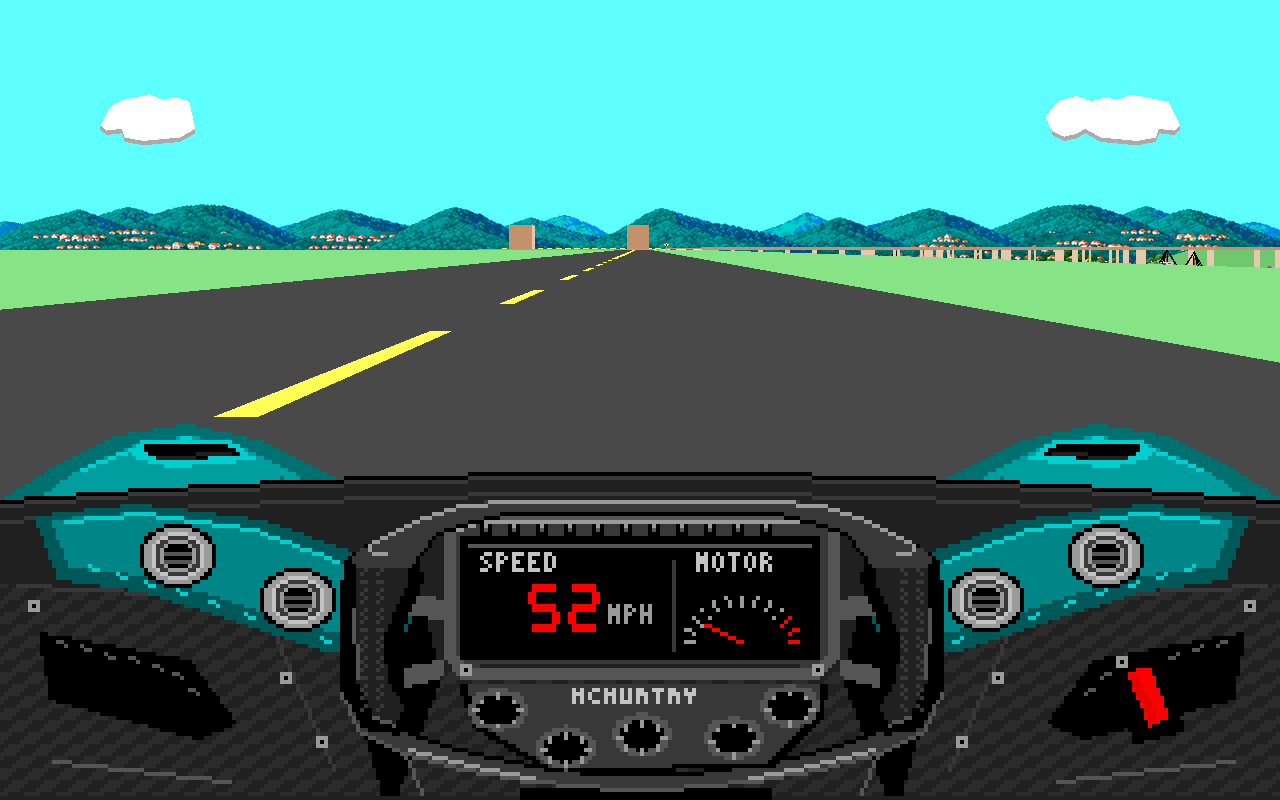
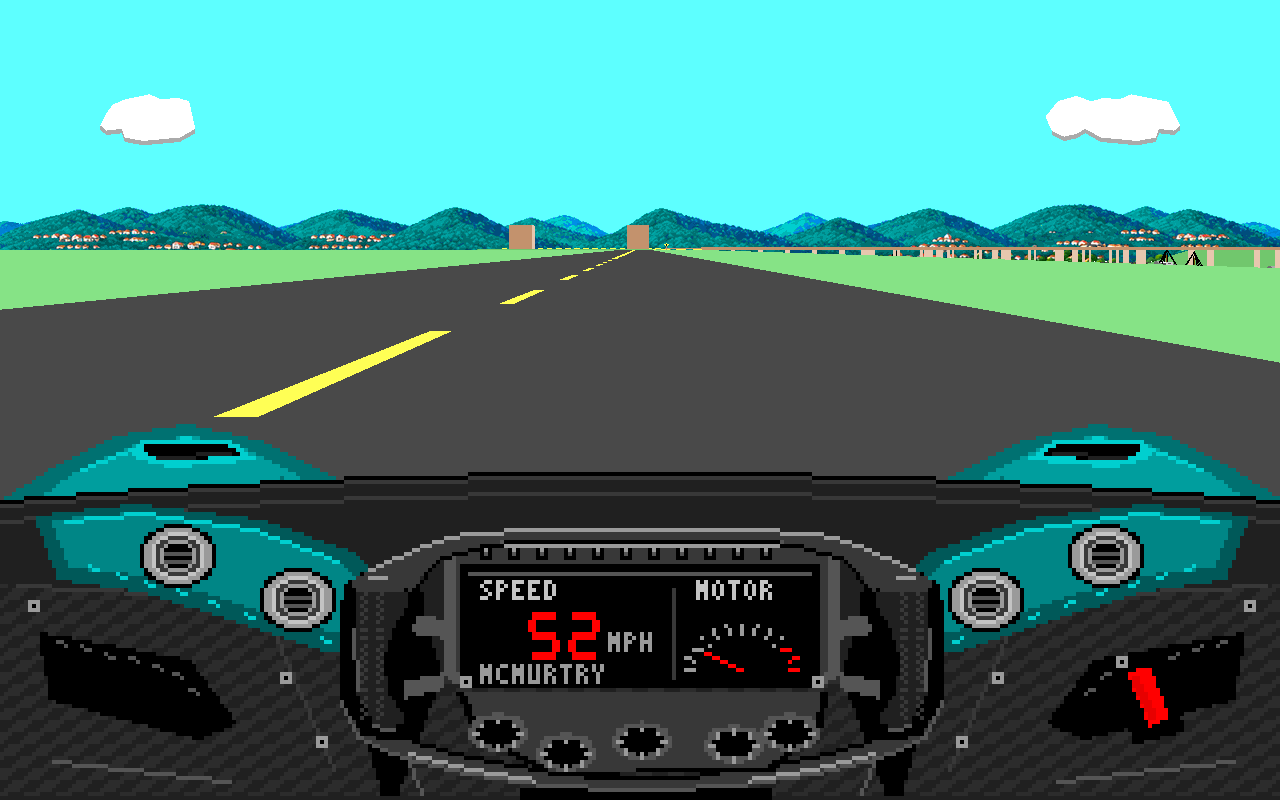
Fix McMurtry steering rim rotation
Replace the fixed screen-space center of the upper bridge with one local
shape transformed by the same rotation as the grips and lower return.
The complete rim now tilts with steering instead of changing shape.

Adjust the wheel pivot/projection and LCD clearance to keep the rigid rim
inside the native redraw region. Keep all five blank controls visible and
the live speed display and red needle clear throughout the steering sweep.

Regenerate dashboard resources and cockpit previews, and update the
recorded memory use to 39,152 resident bytes versus DIA3's 80,304 bytes.

Validation:
- Generator --check passes against packaged and installed resources.
- Upper-rim geometry preserves distances through all three steering states.
- Native steering, live instruments, redraw and RAM checks pass.
- git diff --check passes.

(cherry picked from commit 9a3a7dd85054a5d479c3f8ca9f4cfcdd4c1a1bfe)

Changed region(s): [[0.25, 0.625, 0.75, 1.0]]

diff --git a/tools/scripts/mcmurtry_dashboard.py b/tools/scripts/mcmurtry_dashboard.py
@@ -23,7 +23,7 @@ from pathlib import Path
 import struct
 
 from tesla_roadster_dashboard import (
-    Canvas, FONT, _container, _digit, _helpers, _palette, _resource_dict, _shape,
+    Canvas, _container, _digit, _helpers, _palette, _resource_dict, _shape,
     prepared_stda_size,
 )
 
@@ -32,9 +32,18 @@ WIDTH, HEIGHT = 320, 200
 DASH_TOP = 125
 DASH_OPAQUE_TOP = DASH_TOP
 TOP_OVERLAY_RECT = (0, 103, WIDTH, DASH_TOP - 103)
-INSTRUMENT_RECT = (116, 135, 88, 29)
+INSTRUMENT_RECT = (116, 142, 88, 29)
 WHEEL_RECT = (70, 125, 180, 75)
 WHEEL_TURN_DEGREES = 10
+WHEEL_CENTER = (160, 163)
+WHEEL_VERTICAL_SCALE = .72
+# One unchanged local shape for every steering state. The full rim uses the
+# same rotation and projection as the grips, lower return and control plate.
+UPPER_RIM_OUTER = ((-68, -29), (-54, -37.5), (-45, -41.25), (-33, -42.5),
+                   (33, -42.5), (45, -41.25), (54, -37.5), (68, -29))
+UPPER_RIM_INNER = ((58, -21), (51, -32.5), (42, -36.25), (33, -38.75),
+                   (-33, -38.75), (-42, -36.25), (-51, -32.5), (-58, -21))
+CONTROL_CENTERS = ((-36, 28), (-19, 35), (0, 31), (23, 32), (37, 28))
 DIGIT_WIDTH, DIGIT_HEIGHT = 8, 12
 DIGIT_POSITIONS = ((6, 11), (16, 11), (26, 11))
 BLACK, CHARCOAL, CARBON, EDGE = 0, 31, 29, 27
@@ -73,34 +82,34 @@ def _bolt(canvas, x, y):
 
 def _lcd(canvas):
     """Stationary live screen and actual prototype's shaped display surround."""
-    bezel = [(111, 132), (117, 129), (201, 129), (209, 132),
-             (209, 165), (204, 170), (115, 170), (111, 165)]
+    bezel = [(111, 138), (117, 135), (201, 135), (209, 138),
+             (209, 169), (204, 172), (115, 172), (111, 169)]
     canvas.polygon(bezel, EDGE)
-    canvas.polygon([(114, 132), (120, 130), (200, 130), (206, 132),
-                    (206, 164), (203, 167), (117, 167), (114, 164)], CARBON)
-    canvas.line((114, 132), (120, 130), SILVER)
-    canvas.line((120, 130), (199, 130), SILVER)
+    canvas.polygon([(114, 138), (120, 136), (200, 136), (206, 138),
+                    (206, 168), (203, 170), (117, 170), (114, 168)], CARBON)
+    canvas.line((114, 138), (120, 136), SILVER)
+    canvas.line((120, 136), (199, 136), SILVER)
     # The photographed lamps are unlit pale lenses, not fake shift telemetry.
     for index in range(11):
         x = 121 + index * 7
-        canvas.rect(x - 1, 131, x + 1, 133, BLACK)
-        canvas.point(x, 131, SILVER)
-        canvas.point(x, 132, EDGE)
-    canvas.rect(115, 134, 204, 164, BLACK)
-    canvas.line((117, 136), (202, 136), EDGE)
-    canvas.text(120, 138, "SPEED", WHITE)
-    canvas.text(174, 138, "MOTOR", WHITE)
-    canvas.text(152, 151, "MPH", SILVER)
-    canvas.line((168, 140), (168, 162), CARBON)
+        canvas.rect(x - 1, 137, x + 1, 139, BLACK)
+        canvas.point(x, 137, SILVER)
+        canvas.point(x, 138, EDGE)
+    canvas.rect(115, 141, 204, 171, BLACK)
+    canvas.line((117, 143), (202, 143), EDGE)
+    canvas.text(120, 145, "SPEED", WHITE)
+    canvas.text(174, 145, "MOTOR", WHITE)
+    canvas.text(152, 158, "MPH", SILVER)
+    canvas.line((168, 147), (168, 169), CARBON)
     for index in range(13):
         angle = math.pi - index * math.pi / 12
         cx, cy = INSTRUMENT_RECT[0] + MOTOR_CENTER[0], INSTRUMENT_RECT[1] + MOTOR_CENTER[1]
         canvas.line((cx + 14 * math.cos(angle), cy - 11 * math.sin(angle)),
                     (cx + 12 * math.cos(angle), cy - 9 * math.sin(angle)),
                     RED if index > 9 else SILVER)
-    canvas.line((120, 166), (199, 166), CHARCOAL)
-    _bolt(canvas, 116, 167)
-    _bolt(canvas, 204, 167)
+    canvas.text(120, 166, "MCMURTRY", SILVER)
+    _bolt(canvas, 116, 170)
+    _bolt(canvas, 204, 170)
 
 
 def _ellipse(canvas, x, y, rx, ry, color):
@@ -227,32 +236,36 @@ def _panel():
     return canvas
 
 
+def transform_wheel_points(vertices, direction):
+    """Rigid wheel-plane rotation followed by the shared cockpit projection."""
+    angle = math.radians(direction * WHEEL_TURN_DEGREES)
+    cosine, sine = math.cos(angle), math.sin(angle)
+    return [(WHEEL_CENTER[0] + x * cosine - y * sine,
+             WHEEL_CENTER[1] + WHEEL_VERTICAL_SCALE * (x * sine + y * cosine))
+            for x, y in vertices]
+
+
 def _wheel(canvas, direction):
     """Draw a closed shaped rim, textured side grips and five-knob plate."""
     # Keep the actual instrument face identical in every wheel sprite. The
     # game's dashboard_update_instruments redraws it after wheel restoration,
     # including when steering changes while the speed/RPM are unchanged.
-    lcd_rect = (111, 129, 99, 42)
+    lcd_rect = (111, 135, 99, 38)
     lcd_pixels = canvas.crop(lcd_rect)
-    angle = math.radians(direction * WHEEL_TURN_DEGREES)
-    cosine, sine = math.cos(angle), math.sin(angle)
 
     def points(vertices):
-        return [(160 + (x * cosine - y * sine),
-                 159 + .8 * (x * sine + y * cosine)) for x, y in vertices]
+        transformed = transform_wheel_points(vertices, direction)
+        x, y, width, height = WHEEL_RECT
+        if any(not x <= round(px) < x + width or
+               not y <= round(py) < y + height for px, py in transformed):
+            raise ValueError("Rigid wheel geometry escapes its redraw rectangle")
+        return transformed
 
     def polygon(vertices, color):
         canvas.polygon(points(vertices), color)
 
     def line(vertices, color, thickness=1):
         canvas.line(*points(vertices), color, thickness)
-
-    def label(x, y, text, color=WHITE):
-        for letter in text:
-            for index, pixel in enumerate(FONT[letter]):
-                if pixel == "1":
-                    canvas.point(*points([(x + index % 3, y + index // 3)])[0], color)
-            x += 4
 
     # A non-circular lower return connects both hand grips around the controls.
     # It sits behind the control plate and its knobs, with a shaped central
@@ -304,13 +317,13 @@ def _wheel(canvas, direction):
     polygon(plate, BLACK)
     polygon([(x * .96, y * .97) for x, y in plate], CARBON)
     line([(-44, 10), (43, 10)], EDGE)
-    label(-17, 16, "MCMURTRY", WHITE)
-    controls = ((-36, 23), (-19, 35), (0, 31), (23, 32), (37, 22))
-    for x, y in controls:
+    for x, y in CONTROL_CENTERS:
         # All five match the previous unlabelled second control: a dark face
         # and fluted outer grip. There is no white interior mark or dial text.
         surround = [(x + 8 * math.cos(a * math.pi / 4),
                      y + 7 * math.sin(a * math.pi / 4)) for a in range(8)]
+        if min(round(py) for _, py in points(surround)) < lcd_rect[1] + lcd_rect[3]:
+            raise ValueError("Rotary knob overlaps the restored LCD")
         polygon(surround, EDGE)
         polygon([(x + 6 * math.cos(a * math.pi / 4),
                   y + 5 * math.sin(a * math.pi / 4)) for a in range(8)], BLACK)
@@ -323,21 +336,17 @@ def _wheel(canvas, direction):
     for row in range(height):
         start = (y + row) * WIDTH + x
         canvas.pixels[start:start + width] = lcd_pixels[row * width:(row + 1) * width]
-    # The upper bridge remains visibly connected above the live screen. Its
-    # shoulder joins follow the steered grips while its narrow central cap
-    # surrounds the upright LCD. Restore only the bezel below this bridge, so
-    # neither display redraw nor the top-art mask can erase the closed rim.
-    left_outer, right_outer = points([(-68, -29), (68, -29)])
-    left_inner, right_inner = points([(-58, -21), (58, -21)])
-    top_outer = [left_outer, (106, 129), (115, 126), (127, 125),
-                 (193, 125), (205, 126), (214, 129), right_outer]
-    top_inner = [right_inner, (211, 133), (202, 130), (193, 128),
-                 (127, 128), (118, 130), (109, 133), left_inner]
-    canvas.polygon(top_outer + top_inner, CARBON)
-    for first, last in zip(top_outer, top_outer[1:]):
-        canvas.line(first, last, SILVER)
-    for first, last in zip(top_inner, top_inner[1:]):
-        canvas.line(first, last, BLACK)
+    # Restore the upright LCD first, then draw the complete rigid bridge over
+    # it. Layout clearance keeps every bridge pixel outside the live display,
+    # so native instrument redraw cannot erase part of the rotating rim.
+    live_pixels = canvas.crop(INSTRUMENT_RECT)
+    polygon(UPPER_RIM_OUTER + UPPER_RIM_INNER, CARBON)
+    for first, last in zip(UPPER_RIM_OUTER, UPPER_RIM_OUTER[1:]):
+        line([first, last], SILVER)
+    for first, last in zip(UPPER_RIM_INNER, UPPER_RIM_INNER[1:]):
+        line([first, last], BLACK)
+    if canvas.crop(INSTRUMENT_RECT) != live_pixels:
+        raise ValueError("Rigid upper rim overlaps the live instrument rectangle")
 
 
 def build_dashboards(repo: Path) -> tuple[bytes, bytes, dict[int, bytes]]:
@@ -432,8 +441,9 @@ def write_preview(repo: Path, path: Path, speed=150):
                 if color:
                     canvas.point(INSTRUMENT_RECT[0] + x + column,
                                  INSTRUMENT_RECT[1] + y + row, color)
-    canvas.line((INSTRUMENT_RECT[0] + MOTOR_CENTER[0],
-                 INSTRUMENT_RECT[1] + MOTOR_CENTER[1]), (197, 149), RED)
+    motor_x = INSTRUMENT_RECT[0] + MOTOR_CENTER[0]
+    motor_y = INSTRUMENT_RECT[1] + MOTOR_CENTER[1]
+    canvas.line((motor_x, motor_y), (motor_x + 12, motor_y - 11), RED)
     path = Path(path)
     path.write_bytes(_helpers(Path(repo))["indexed_png"](
         WIDTH, HEIGHT, bytes(canvas.pixels), _palette(Path(repo))))

diff --git a/tools/scripts/generate-mcmurtry-speirling.py b/tools/scripts/generate-mcmurtry-speirling.py
@@ -363,7 +363,7 @@ def generate(repository):
                      "min_alignment_cosine_q14": 8192, "max_alignment_degrees": 60, "surface_mask": 15,
                      "surfaces": ["paved", "dirt", "ice", "grass"],
                      "note": "Restunts surface attachment is a game approximation of fan downforce. No water adhesion. Original Stunts ignores these extra resources."},
-        "dashboard_note": "Original indexed artwork based on the supplied cockpit photographs and 2024 references: upright LCD, lamp row, a continuous shaped steering rim with textured side grips and contrasting carbon top and bottom bridges, five matching unlabelled fluted knobs, turquoise vent pods, silver circular vents and detailed carbon side panels. The instrument needle is red. A gently bowed carbon cowl and shaded upper lip curve around the wheel. Native masked upper artwork shows that curved edge, turquoise front fender crowns and their top openings while preserving the live road above them. Live instruments remain legible in all three steering positions; no copied photograph pixels.",
+        "dashboard_note": "Original indexed artwork based on the supplied cockpit photographs and 2024 references: upright LCD, lamp row, a continuous shaped steering rim with textured side grips and contrasting carbon top and bottom bridges, five matching unlabelled fluted knobs, turquoise vent pods, silver circular vents and detailed carbon side panels. Every rim section uses the same rotation about the hub, preserving the upper bridge's shape while steering. The instrument needle is red. A gently bowed carbon cowl and shaded upper lip curve around the wheel. Native masked upper artwork shows that curved edge, turquoise front fender crowns and their top openings while preserving the live road above them. Live instruments remain legible in all three steering positions; no copied photograph pixels.",
         "dashboard_reference": "https://www.topgear.com/car-reviews/speirling/first-drive",
         "dashboard_reference_images": dashboard.DASHBOARD_REFERENCES,
         "dashboard_decompressed_bytes": budgets,
@@ -435,6 +435,7 @@ the user's 1000005898/5901/5899/5900.jpg detail photographs.
 The cockpit combines the supplied 1000005914/5913/5912.jpg photographs with
 the earlier rectangular LCD wheel reference. A continuous shaped steering
 rim joins textured side grips with contrasting carbon top and bottom bridges.
+Every rim section rotates about the same hub, including the upper bridge.
 It has five matching blank fluted knobs, a red instrument needle, turquoise
 vent pods, silver circular vents, stitched carbon trim and release hardware. Native
 dast/dasm masks show the gently bowed carbon cowl, raised turquoise front

diff --git a/docs/mcmurtry-speirling.md b/docs/mcmurtry-speirling.md
@@ -80,6 +80,8 @@ photographs and the earlier
 [wheel reference](https://www.topgear.com/car-reviews/speirling/first-drive).
 It combines an upright LCD and unlit lamp row with a continuous shaped steering
 rim: textured side grips join contrasting carbon top and bottom bridges.
+All rim sections use the same rotation about the wheel hub in each steering
+view, preserving the upper bridge's shape as it turns.
 The five fluted knobs match and have blank interiors. The record-holder
 inscription is removed and the live instrument needle is red. Turquoise vent
 pods, four silver circular vents, stitched padding, carbon trim, seams,
@@ -209,15 +211,15 @@ The classic 320×200 native loader and allocator give these dashboard sizes:
 | Stage | MCMU | DIA3 |
 | --- | ---: | ---: |
 | Extracted STDA + STDB | 83,907 bytes | 148,036 bytes |
-| Prepared STDA + STDB in the arena | 37,408 bytes | 66,176 bytes |
+| Prepared STDA + STDB in the arena | 36,576 bytes | 66,176 bytes |
 | Shared instrument/gearbox scratch bitmap | 2,576 bytes | 14,128 bytes |
-| Resident arena total including scratch | **39,984 bytes** | **80,304 bytes** |
+| Resident arena total including scratch | **39,152 bytes** | **80,304 bytes** |
 
 The prepared and scratch sizes include the native 16-byte allocation rounding.
 Both dashboards share their instrument and gearbox scratch bitmap: MCMU uses
 88×29 pixels, while DIA3 uses 188×75. Sprite definitions and row tables occupy
 the common preallocated window table. MCMU therefore uses about 43% less
-extracted resource memory and 50% less resident dashboard arena memory.
+extracted resource memory and 51% less resident dashboard arena memory.
 The same sizes and strict limits are recorded in `MCMU.json` and `READMCMU.TXT`.
 
 The native renderer and resource loader are also exercised with a temporary
